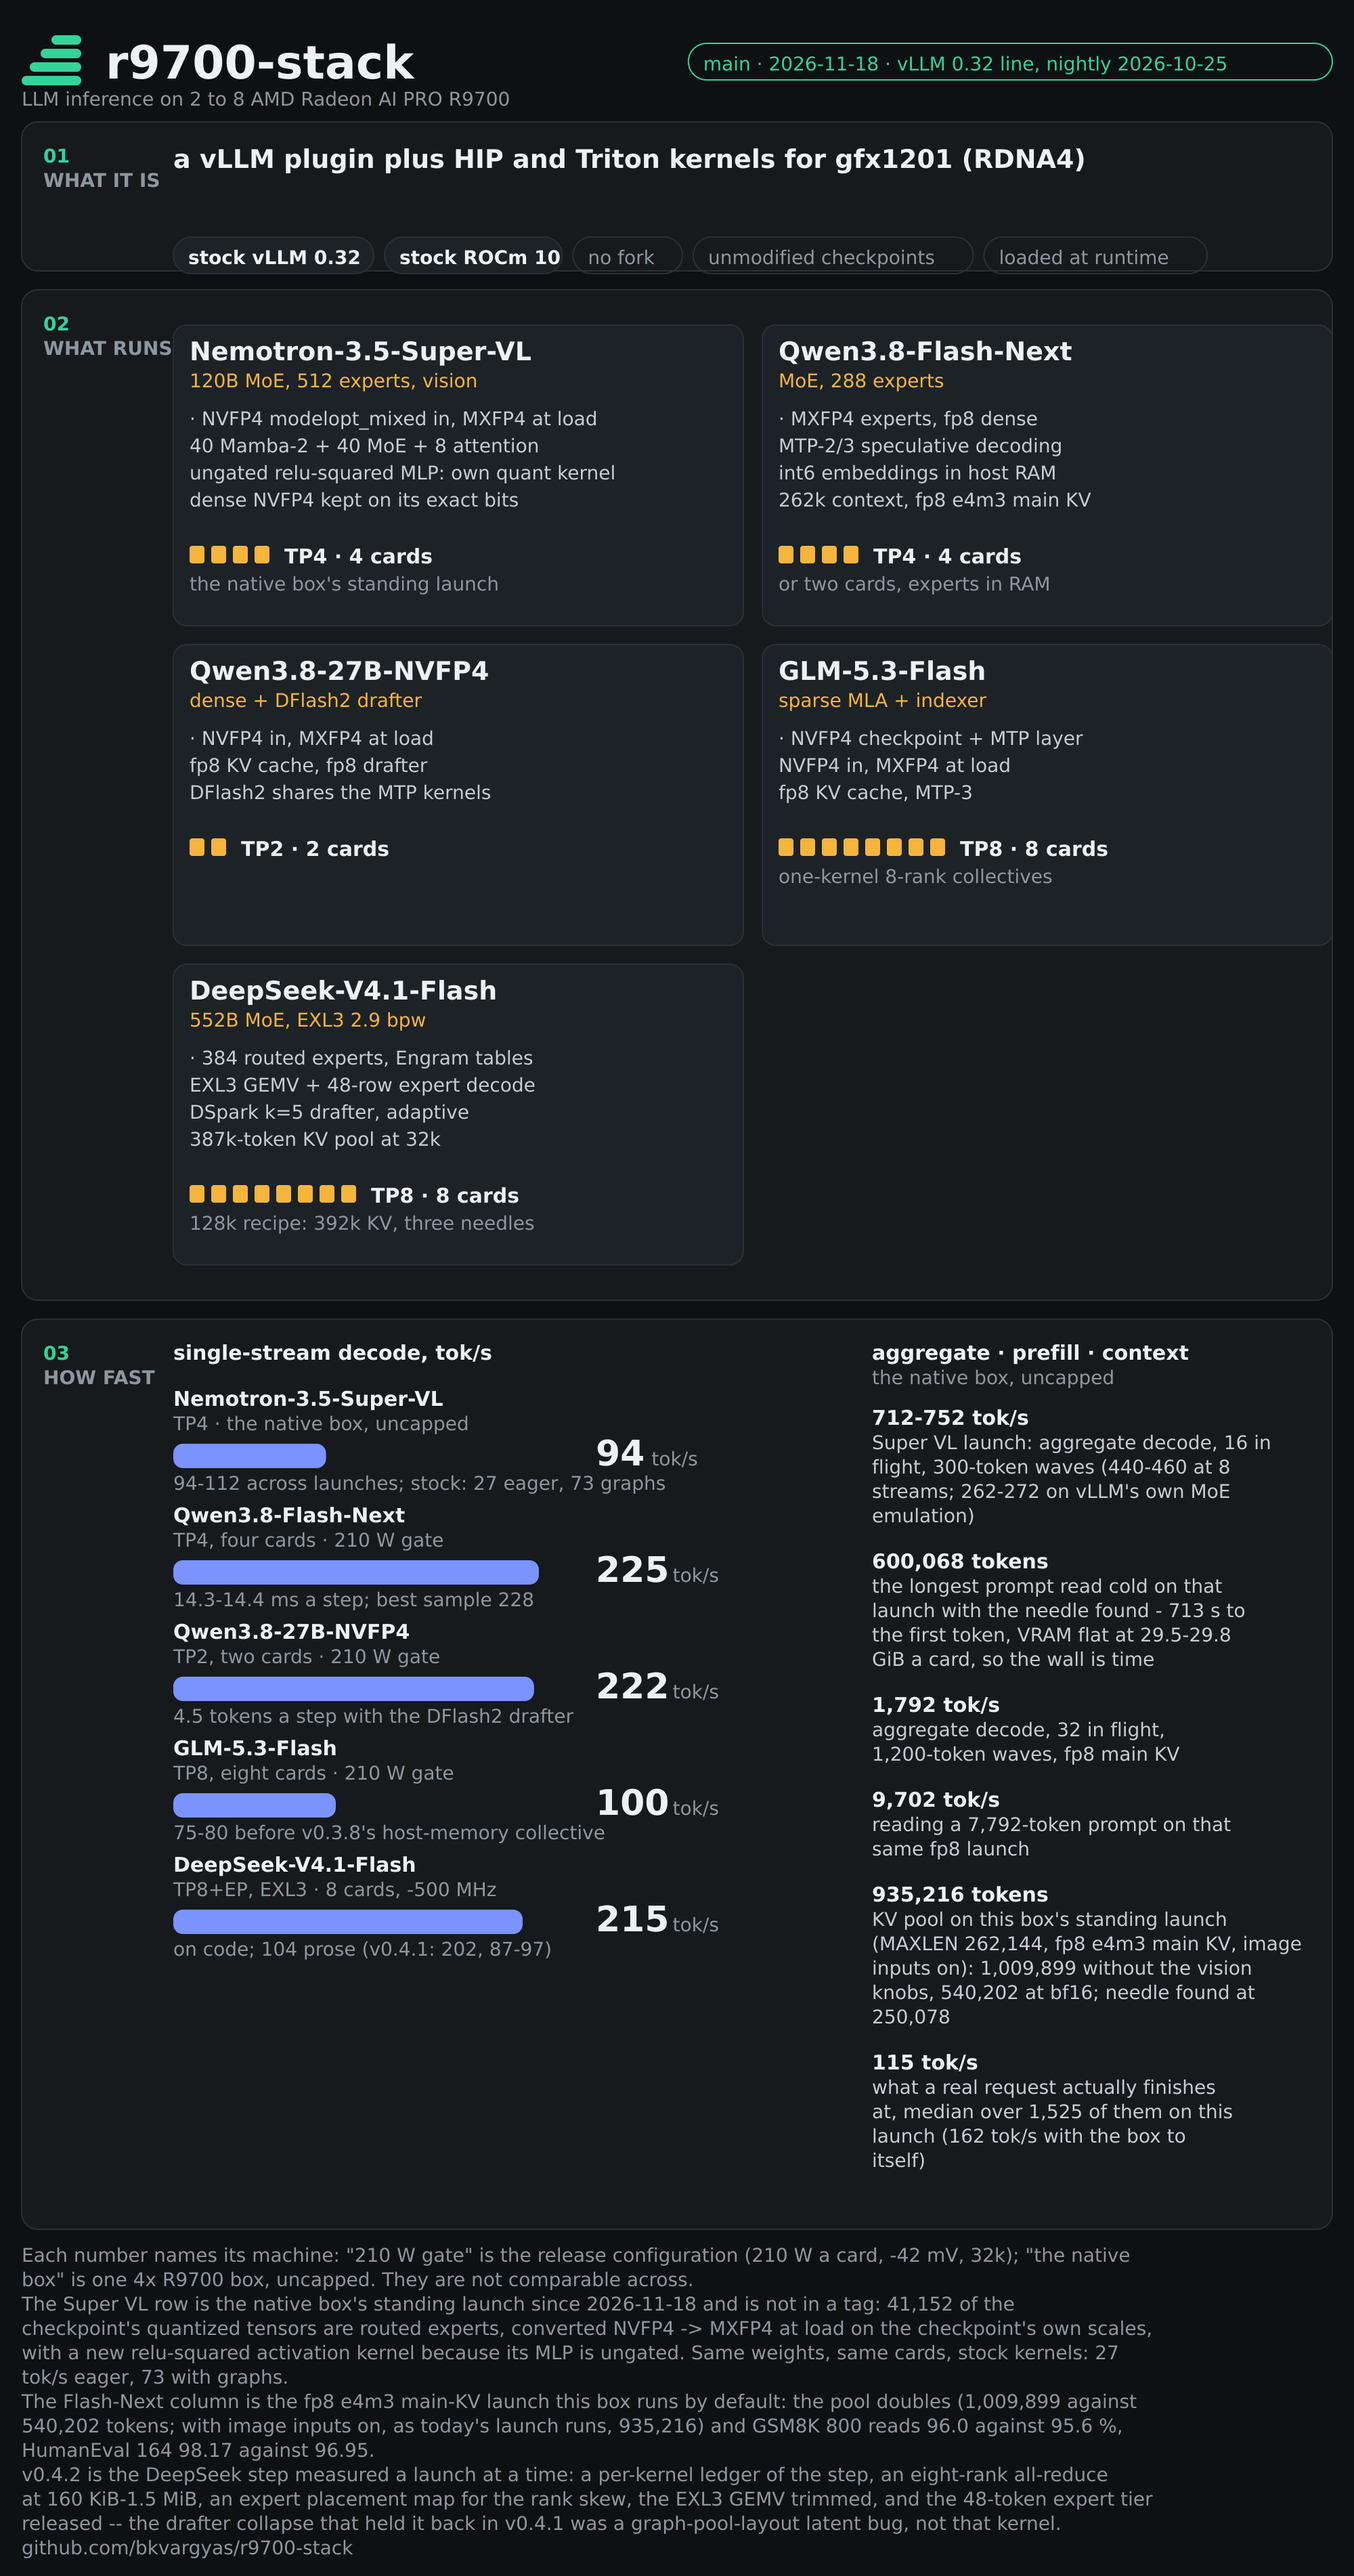
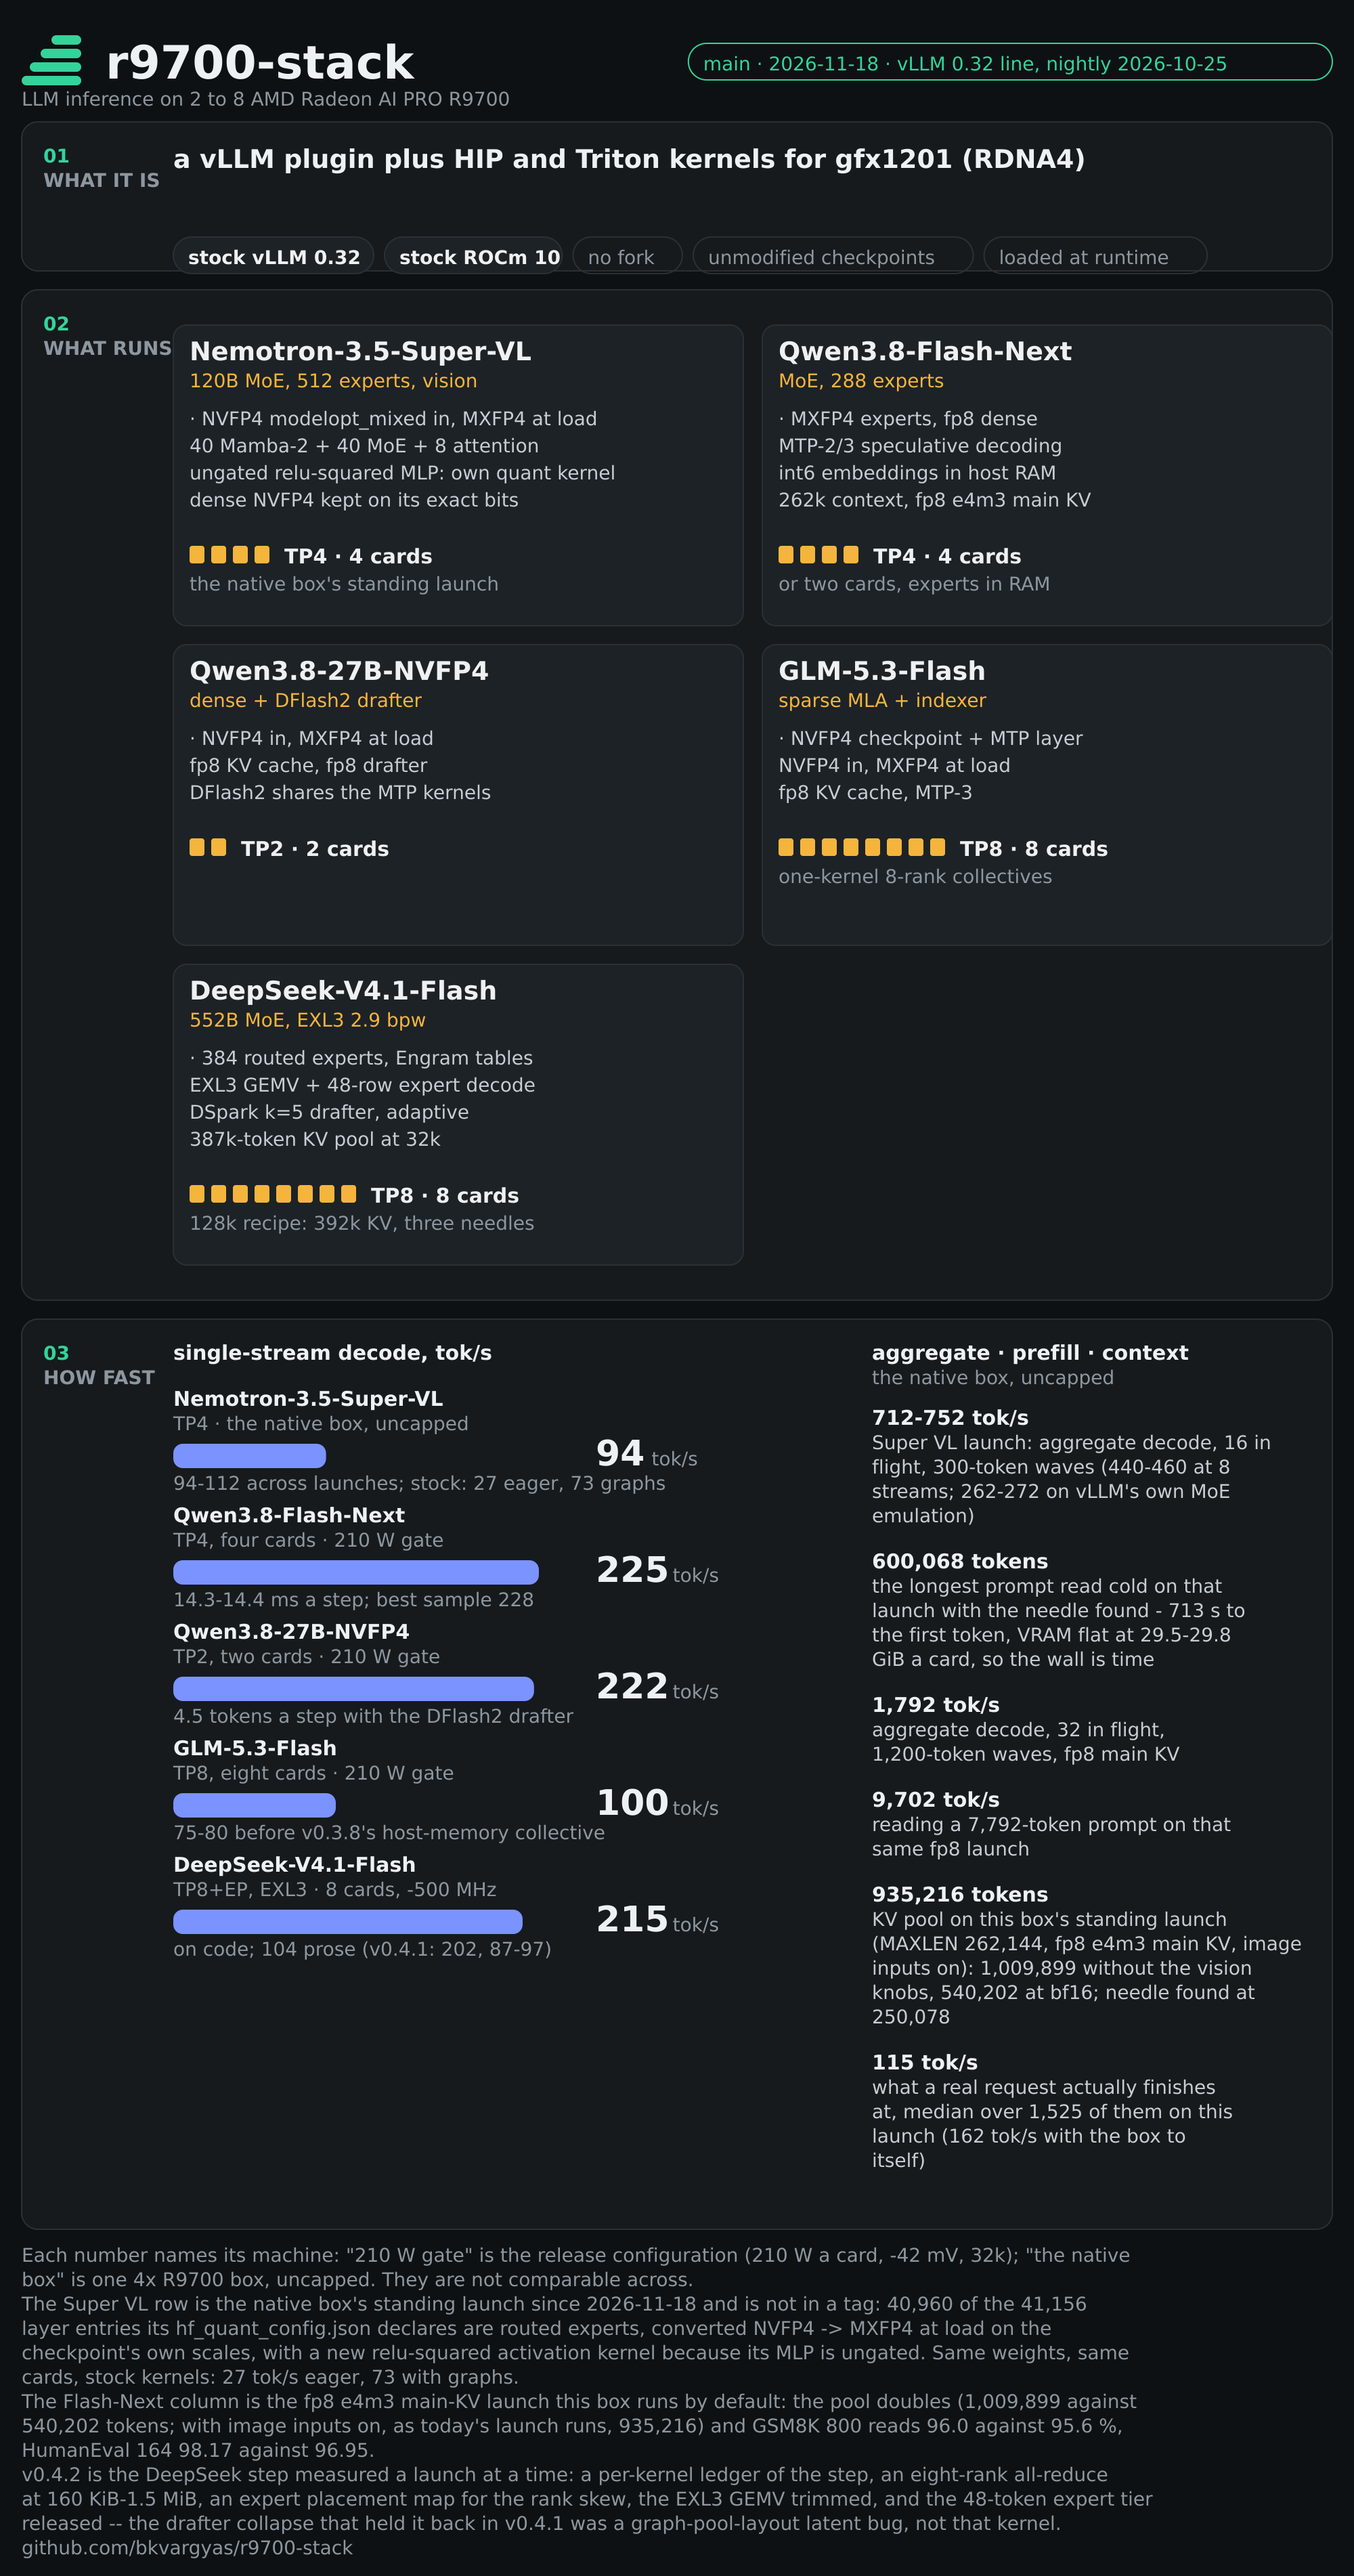
The expert count this model's write-ups quoted was wrong in three different ways
Writing a tweet that said "41,152 experts" made me check the number, and the tree carried three answers to the same
question: README said 41,152 experts out of 41,239 quantized tensors, CHANGELOG said 41,042 expert matrices, the note
said 41,042 of 41,156 entries, the plugin's docstring said 41,043 routed-expert matrices, and the release figure's foot
repeated the README's pair. Read out of the checkpoint's own hf_quant_config.json and cross-checked against the
safetensors index, the truth is:

  41,156 declared layer entries = 40,960 routed-expert matrices (512 experts x the 40 backbone MoE layers, up and down)
                                   + 83 dense NVFP4 linears + 113 FP8
  41,984 expert weight tensors on disk -- 1,024 more, which are the MTP block's 512x2; the config does not list them,
  so they resolve through the default recipe rather than the per-layer map

Two of the numbers in circulation were the NVFP4 total (41,043) mistaken for the expert count, and 41,239 counted
declared entries as if they were tensors. README, CHANGELOG, notes/nemotron-super-vl.md, docs/summary-page.py's foot
and r9700_vllm/quant/modelopt.py's docstring now state the same split, and the note says plainly that anything quoting
41,042/41,152 as an expert count is a miscount of these two populations, so the next person does not re-derive a
fourth number. Figure re-drawn and re-rendered (1000 x 1902, PNG 2000 x 3804); test_readme and test_served_names pass,
[…]

Changed region(s): [[0.0, 0.8996, 0.837, 0.9306]]

diff --git a/docs/summary-page.py b/docs/summary-page.py
@@ -106,10 +106,10 @@ FACTS = [
 
 FOOT = ["Each number names its machine: \"210 W gate\" is the release configuration (210 W a card, -42 mV, 32k); "
         "\"the native box\" is one 4x R9700 box, uncapped. They are not comparable across.",
-        "The Super VL row is the native box's standing launch since 2026-11-18 and is not in a tag: 41,152 of the "
-        "checkpoint's quantized tensors are routed experts, converted NVFP4 -> MXFP4 at load on the checkpoint's own "
-        "scales, with a new relu-squared activation kernel because its MLP is ungated. Same weights, same cards, "
-        "stock kernels: 27 tok/s eager, 73 with graphs.",
+        "The Super VL row is the native box's standing launch since 2026-11-18 and is not in a tag: 40,960 of the "
+        "41,156 layer entries its hf_quant_config.json declares are routed experts, converted NVFP4 -> MXFP4 at load "
+        "on the checkpoint's own scales, with a new relu-squared activation kernel because its MLP is ungated. Same "
+        "weights, same cards, stock kernels: 27 tok/s eager, 73 with graphs.",
         "The Flash-Next column is the fp8 e4m3 main-KV launch this box runs by default: the pool doubles (1,009,899 "
         "against 540,202 tokens; with image inputs on, as today's launch runs, 935,216) and GSM8K 800 reads 96.0 "
         "against 95.6 %, HumanEval 164 98.17 against 96.95.",

diff --git a/r9700_vllm/quant/modelopt.py b/r9700_vllm/quant/modelopt.py
@@ -1,7 +1,8 @@
 """modelopt_mixed checkpoints (NVIDIA's own container for the same NVFP4 bits) on gfx1201.
 
 Nemotron-H MoE checkpoints from nvidia/ carry `quant_method: modelopt_mixed`: a per-layer algorithm map
-(`hf_quant_config.json`, 41,156 entries on Super VL 120B: 41,043 NVFP4 routed-expert matrices + 113 FP8), so
+(`hf_quant_config.json`, 41,156 entries on Super VL 120B: 40,960 NVFP4 routed-expert matrices + 83 NVFP4 dense + 113
+FP8; the MTP block's 1,024 expert tensors are on disk but not listed, so they take the default recipe), so
 `ModelOptMixedPrecisionConfig` resolves each layer to its own recipe. The NVFP4 bits are exactly the ones
 quant/nvfp4.py already converts to MXFP4 for libr9k -- stock ROCm has only a per-call dequant emulation for
 NVFP4 linears and no NVFP4 MoE backend at all, which is what Super VL decodes at on 4xR9700 (8.9 tok/s).

diff --git a/notes/nemotron-super-vl.md b/notes/nemotron-super-vl.md
@@ -8,9 +8,12 @@ Arch `NemotronH_Omni_Reasoning_V3` — vLLM 0.32 registers it as `nano_nemotron_
 `language_model.backbone -> language_model.model` and reuses `nemotron_h.py` plus `nemotron_h_mtp.py`). Quant is
 `modelopt_mixed` (`MIXED_PRECISION`, fp8 KV). Layer mix 40 Mamba2 + 40 MoE + 8 attention, hidden 4096, vocab 131072,
 **512 routed experts, top-22, MoE latent 1024**: `up_proj` [2688,1024] and `down_proj` [1024,2688] per expert, i.e. an
-*ungated* MLP — one matrix per side, not the gate|up halves every other MoE here has. `hf_quant_config.json` lists
-41,156 quantized entries: 41,042 routed-expert NVFP4 (`up_proj`/`down_proj`), 113 FP8, 83 dense NVFP4 (mostly
-`mixer.shared_experts.{up,down}_proj`).
+*ungated* MLP — one matrix per side, not the gate|up halves every other MoE here has. `hf_quant_config.json` declares
+**41,156** quantized layer entries: **40,960 routed-expert matrices** (`up_proj`/`down_proj` × 512 experts × the 40
+backbone MoE layers), **83** dense NVFP4 linears (mostly `mixer.shared_experts.{up,down}_proj`) and **113** FP8. The
+on-disk count is higher — **41,984** expert `weight` tensors, the extra 1,024 being the MTP block's, which the config
+leaves to the default recipe rather than listing. Anything quoted elsewhere as "41,042" or "41,152 experts" is a
+miscount of those two populations; the numbers here are read out of the file and cross-checked against the index.
 
 ## Launch that works
 
@@ -97,7 +100,7 @@ holds a 1M-token context that this box's four pools do not.
 - **What is still stock now**: the Mamba2 state path (conv1d + the selective-scan chunk/recurrence kernels, 40 layers,
   stock Triton under torch.compile) and the vision tower (bf16, only touched when a request carries pictures). The
   backbone's projections are all on kernels now: FP8 scaled-mm for the 113 FP8 entries, libr9k native NVFP4 for the
-  83 dense NVFP4 entries, libr9k grouped MXFP4 x FP8 for the 41,042 expert matrices.
+  83 dense NVFP4 entries, libr9k grouped MXFP4 x FP8 for the 40,960 declared expert matrices.
 - The **image path is untested.** The processor is enabled (`--mm-processor-kwargs {}`; anything Qwen-shaped is
   rejected: `NanoNemotronVLProcessor.__init__() got an unexpected keyword argument 'size'`), patch 16,
   1024-13312 patches.

diff --git a/README.md b/README.md
@@ -101,7 +101,8 @@ You run the stock vLLM ROCm image with this plugin installed. From there:
 1. **Load.** The plugin registers through vLLM's platform, quantization, model and attention-backend entry points and
    brings its own kernel library (`libr9k`, HIP and Triton). The checkpoints are the published ones, unmodified.
 2. **Convert at load.** NVFP4 weights become MXFP4 with MSE-searched block exponents, or on the checkpoint's own
-   scales where it declares them (`modelopt_mixed`, 41,152 expert matrices); fp8 dense, drafter and lm-head GEMMs take
+   scales where it declares them (`modelopt_mixed`: 41,156 declared layer entries, of which 40,960 are routed-expert
+   matrices); fp8 dense, drafter and lm-head GEMMs take
    per-token fp8 activations; the KV cache is fp8; large tables (Flash-Next's per-layer embedding as int6,
    DeepSeek's Engram tables) go to pinned host memory; EXL3 trellis weights (2-6 bits) serve through exllamav3's gfx1201
    extension and our own batched expert kernel.
@@ -160,9 +161,9 @@ one for what a user gets.
 
 ### Nemotron-3.5-Super-VL-120B-A12B: a 120B MoE with 512 experts, on four cards
 
-The box's standing launch, and not a launch-config change. The pack is `modelopt_mixed` MIXED_PRECISION and **41,152 of
-its 41,239 quantized tensors are routed experts**; the plugin had never seen that quantization, and stock on ROCm
-**dequantizes expert by expert**. Same weights, same cards, wave noise ±10%:
+The box's standing launch, and not a launch-config change. The pack is `modelopt_mixed` MIXED_PRECISION and **40,960 of
+the 41,156 layer entries its `hf_quant_config.json` declares are routed experts**; the plugin had never seen that
+quantization, and stock on ROCm **dequantizes expert by expert**. Same weights, same cards, wave noise ±10%:
 
 | what changed | one stream | 8-stream wave |
 |---|---:|---:|

diff --git a/CHANGELOG.md b/CHANGELOG.md
@@ -4,7 +4,8 @@
 
 The checkpoint is `nvidia/NVIDIA-Nemotron-3.5-Super-VL-120B-A12B-NVFP4` (70 GB, `modelopt_mixed`, 512 routed experts,
 top-22, a 1024-wide MoE latent, 40 Mamba2 + 40 MoE + 8 attention layers). ROCm has no NVFP4 MoE backend, so stock
-serves its 41,042 expert matrices through a dequantizing emulation. `quant/modelopt.py` now registers
+serves its 40,960 declared routed-expert matrices (41,984 expert tensors on disk, the MTP block's 1,024 not listed in
+the config) through a dequantizing emulation. `quant/modelopt.py` now registers
 `modelopt_mixed` and hands those experts to the libr9k grouped MXFP4 x FP8 GEMMs, converting each expert in the load
 path with the `nvfp4_to_mxfp4` helper `quant/nvfp4.py` already carried: no offline repack, no extra disk, 17.72 GiB a
 card instead of 18.52, and **+18-22% on short / +12-17% on long generation** at identical settings (73 -> 86 tok/s at
